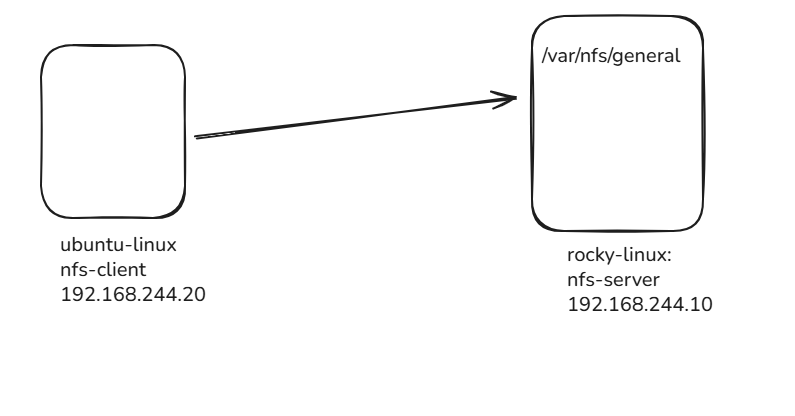
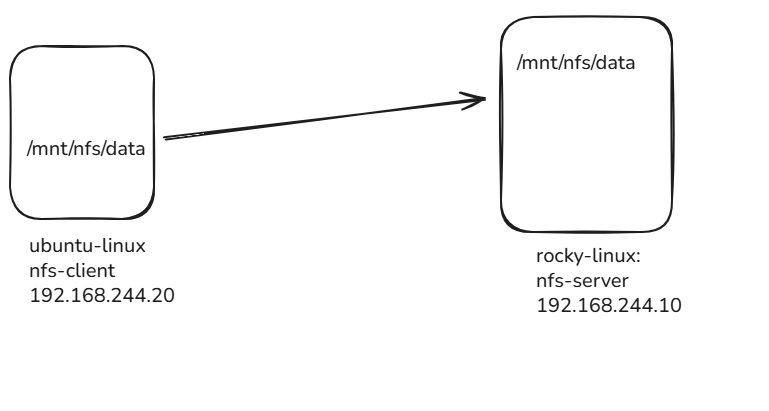
update

Changed region(s): [[0.5306, 0.0292, 0.9051, 0.7591], [0.0, 0.0876, 0.4057, 0.7591], [0.4057, 0.2628, 0.5306, 0.292]]

diff --git a/0-general_working/README.md b/0-general_working/README.md
@@ -2234,13 +2234,13 @@ echo tessssssssst | nc -u 192.168.1.1 -p 1519
 
 ----------
 sudo dnf install nfs-utils
-sudo mkdir /var/nfs/general -p
-sudo chown nobody /var/nfs/general
+sudo mkdir /mnt/nfs/data -p
+sudo chown nobody /mnt/nfs/data
 ----------
 # now go the  /etc/exports and add below config
 vim /etc/exports
 --------------
-/var/nfs/general    192.168.244.20(rw,sync,no_subtree_check)
+/mnt/nfs/data    192.168.244.20(rw,sync,no_subtree_check)
 --------------
 sudo systemctl enable nfs-server
 sudo systemctl start nfs-server
@@ -2256,12 +2256,19 @@ firewall-cmd --reload
 
 apt install nfs-common
 
-sudo mkdir -p /var/nfs-data
+sudo mkdir -p /mnt/nfs/data
 -----
-mount 192.168.244.10:/var/nfs/general /var/nfs-data
-
+mount 192.168.244.10:/mnt/nfs/data /mnt/nfs/data
 -----
 
+# you can permanent it in /etc/fstab
+vim /etc/fstab
+-----
+192.168.244.10:/mnt/nfs/data   /mnt/nfs/data   nfs auto,nofail,noatime,nolock,intr,tcp,actimeo=1800 0 0
+-----
+
+df -Th 
+lsblk
 
 ```
 ## GlusterFS
